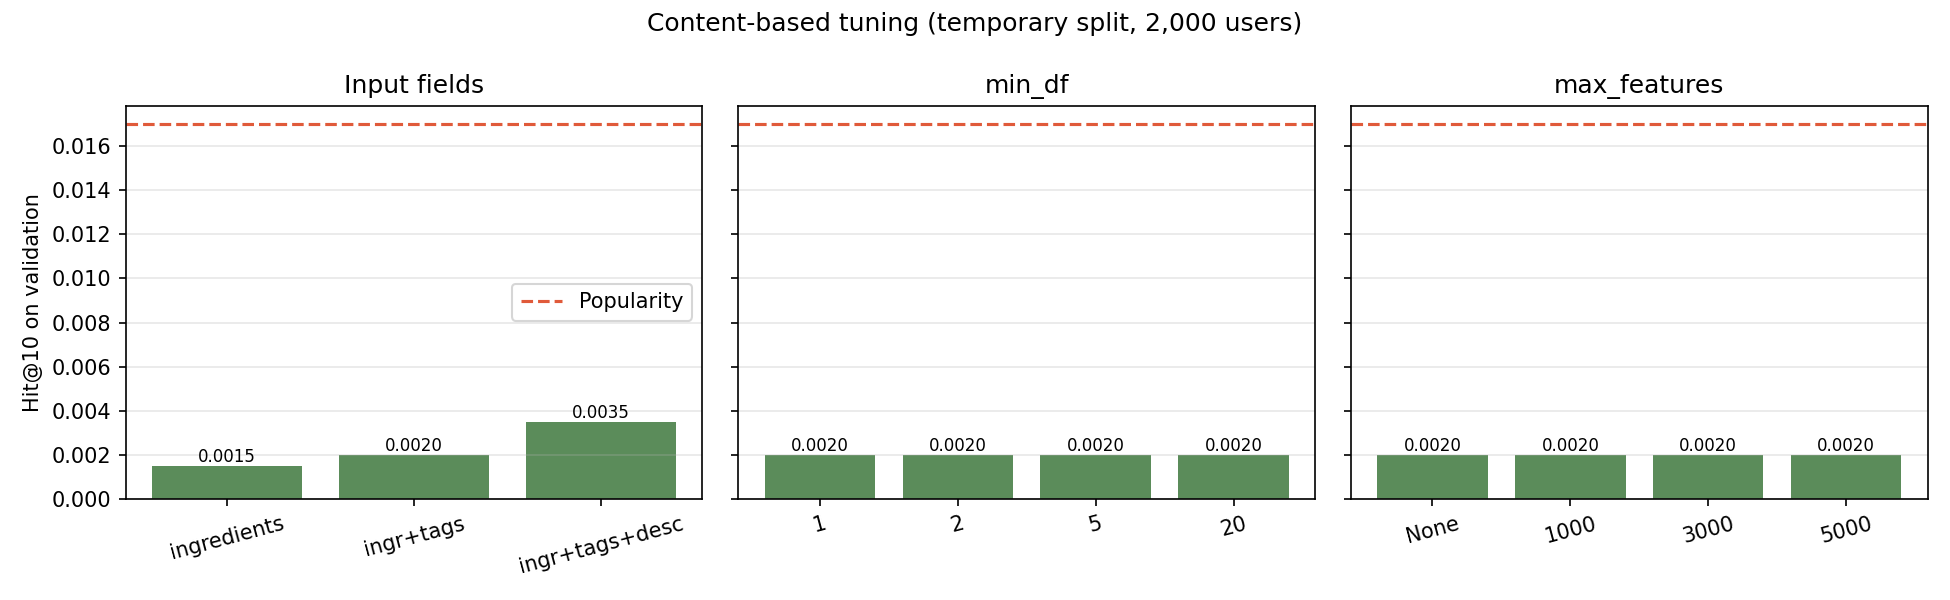
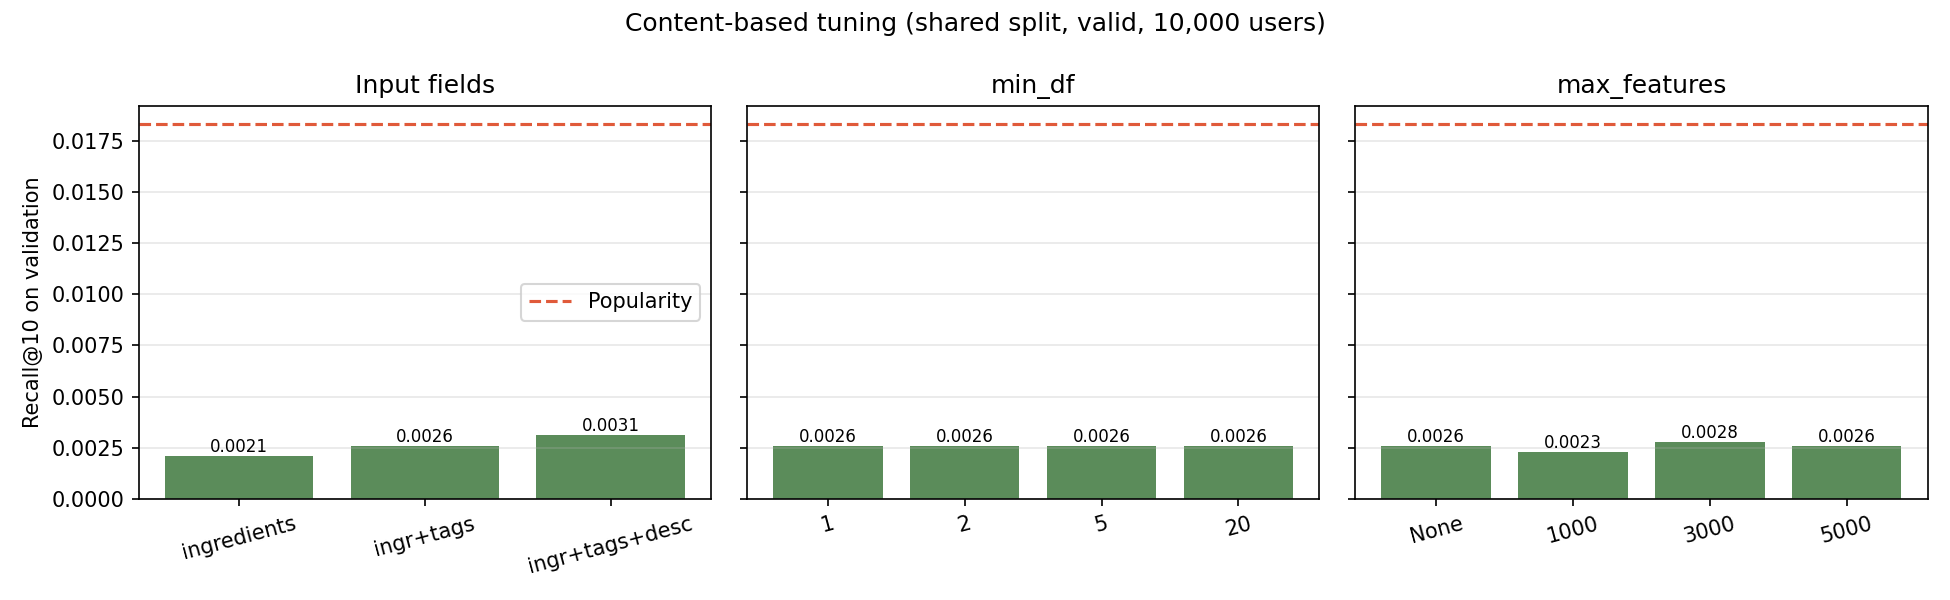
콘텐츠 기반 마무리

diff --git a/tune_content_based.py b/tune_content_based.py
@@ -1,7 +1,7 @@
 """
 tune_content_based.py  (담당: Member C, 3주차 튜닝 실험)
 
-콘텐츠 기반 추천기의 설정을 바꿔 가며 검증(valid) 데이터에서 Hit@K를 비교한다.
+콘텐츠 기반 추천기의 설정을 바꿔 가며 공통 분할의 valid에서 Precision@K·Recall@K를 비교한다.
 
 실험 (기본 설정: 재료+태그, min_df=2, max_features=None)
     한 번에 하나만 바꾸고 나머지는 기본값으로 둔다.
@@ -11,10 +11,11 @@ tune_content_based.py  (담당: Member C, 3주차 튜닝 실험)
 
 왜 valid로 튜닝하는가?
     test로 설정을 고르면 test 점수가 실제보다 좋게 나온다. test가 사실상 학습에 쓰인 셈이기 때문이다.
-    그래서 사용자별 '끝에서 두 번째' 평점(valid)으로 설정을 고른다.
-    test(마지막 평점)는 run_content_based.py에서 마지막 확인에만 쓴다.
+    그래서 valid로 설정을 고르고, test는 run_evaluate.py --split test로 마지막에 한 번만 본다.
 
-!! 임시 분할 기준이다. A의 공통 분할이 나오면 그 valid로 다시 돌린다. !!
+데이터와 지표
+    - 분할: preprocess.load_splits (공통 분할. 먼저 python run_preprocess.py 실행)
+    - 지표: evaluate.evaluate_topk (공통 평가 코드). valid는 사용자당 1개라서 Recall@K = Hit@K 이다.
 
 실행: python tune_content_based.py
 결과: results/content_based_tuning.csv, results/content_based_tuning.png
@@ -32,13 +33,16 @@ import pandas as pd
 ROOT = Path(__file__).resolve().parent
 sys.path.insert(0, str(ROOT / "src"))
 from content_based import ContentBasedRecommender  # noqa: E402
+from evaluate import PopularityBaseline, evaluate_topk  # noqa: E402
+from preprocess import load_splits  # noqa: E402
 from recipe_parsing import prepare_recipes  # noqa: E402
-from temp_eval import temp_split, sample_eval_users, hit_at_k, popular_hit_at_k  # noqa: E402
 
-DATA_DIR = Path(sys.argv[1]) if len(sys.argv) > 1 else ROOT / "data"
+DATA_DIR = ROOT / "data"
 RESULT_DIR = ROOT / "results"
-N_EVAL_USERS = 2000
-KS = [10, 50]
+# 평가 사용자 수. 처음 임시 실험(2,000명)은 설정 간 hit 차이가 몇 명뿐이라 우연과 구별하기 어려웠다.
+# 그래서 10,000명으로 늘렸다. 전체(약 3만 3천 명)는 설정 9개를 돌리는 데 2시간 가까이 걸린다.
+N_EVAL_USERS = 10000
+KS = (10, 50)
 
 DEFAULT = {"fields": ("ingredients", "tags"), "min_df": 2, "max_features": None}
 FIELD_LABELS = {
@@ -54,15 +58,22 @@ EXPERIMENTS = [
 ]
 
 
+def evaluate(model, valid):
+    """공통 평가 코드로 valid를 평가하고 {"recall@10": ..., "precision@10": ..., ...}를 돌려준다."""
+    # 모델이 달라도 seed가 같으면 같은 사용자들이 뽑힌다(evaluate_topk 설명 참고). 그래서 설정끼리 공정하게 비교된다.
+    res = evaluate_topk(model, valid, ks=KS, max_users=N_EVAL_USERS).set_index("k")
+    out = {"n_users": int(res["n_users"].iloc[0])}
+    for k in KS:
+        out[f"recall@{k}"] = res.loc[k, "recall"]
+        out[f"precision@{k}"] = res.loc[k, "precision"]
+    return out
+
+
 def main():
     t0 = time.time()
+    train, valid, _ = load_splits(DATA_DIR / "processed")  # test는 여기서 쓰지 않는다
     recipes = pd.read_csv(DATA_DIR / "RAW_recipes.csv")
-    inter = pd.read_csv(DATA_DIR / "RAW_interactions.csv", usecols=["user_id", "recipe_id", "date", "rating"])
-    inter = inter[inter["rating"] > 0]  # rating 0 = 리뷰만 남긴 경우 → 제거
-
-    train, valid, _ = temp_split(inter)  # test는 여기서 쓰지 않는다
-    eval_rows = sample_eval_users(valid, N_EVAL_USERS)
-    print(f"[임시 분할] train {len(train):,} / valid {len(valid):,}, 평가 사용자 {len(eval_rows):,}명")
+    print(f"[공통 분할] train {len(train):,} / valid {len(valid):,}")
 
     # 재료·태그 파싱(ast.literal_eval)은 23만 행이라 수십 초 걸린다. 실험마다 반복하지 않도록 한 번만 한다.
     # 파싱된 리스트가 들어가면 fit 안의 parse_list_column은 그대로 통과시킨다.
@@ -76,39 +87,36 @@ def main():
             key = tuple(config.items())
             if key not in done:
                 model = ContentBasedRecommender(**config).fit(recipes, train)
-                hits = hit_at_k(model, eval_rows, KS)
-                done[key] = (hits, model.X.shape[1])
-                print(f"  {config}  단어 {model.X.shape[1]:,}개  "
-                      + "  ".join(f"Hit@{k}={h:.4f}" for k, h in hits.items())
-                      + f"  ({time.time() - t0:.0f}s)")
-            hits, vocab = done[key]
+                done[key] = {"vocab_size": model.X.shape[1], **evaluate(model, valid)}
+                r = done[key]
+                print(f"  {config}  단어 {r['vocab_size']:,}개  "
+                      + "  ".join(f"Recall@{k}={r[f'recall@{k}']:.4f}" for k in KS)
+                      + f"  ({time.time() - t0:.0f}s)", flush=True)
             label = FIELD_LABELS[value] if param == "fields" else str(value)
-            rows.append({"experiment": exp_name, "value": label, "vocab_size": vocab,
-                         **{f"hit@{k}": h for k, h in hits.items()}})
+            rows.append({"experiment": exp_name, "value": label, **done[key]})
 
-    # 비교 기준: 같은 사용자들에게 인기순으로 추천한 결과 (모델 설정과 무관하므로 한 번만 계산)
-    pop = popular_hit_at_k(model, eval_rows, KS)
-    rows.append({"experiment": "Popularity", "value": "-", "vocab_size": 0,
-                 **{f"hit@{k}": h for k, h in pop.items()}})
+    # 비교 기준: 공통 평가 코드의 인기순 기준선 (같은 사용자들)
+    pop = evaluate(PopularityBaseline().fit(None, train), valid)
+    rows.append({"experiment": "Popularity", "value": "-", "vocab_size": 0, **pop})
 
     res = pd.DataFrame(rows)
     RESULT_DIR.mkdir(exist_ok=True)
     res.to_csv(RESULT_DIR / "content_based_tuning.csv", index=False)
-    print("\n" + res.round(4).to_string(index=False))
+    print("\n" + res.round(5).to_string(index=False))
 
-    # ---- plot: 실험별 Hit@10 막대 그래프, 인기순은 점선으로 표시 ----
+    # ---- plot: 실험별 Recall@10 막대 그래프, 인기순은 점선으로 표시 ----
     fig, axes = plt.subplots(1, len(EXPERIMENTS), figsize=(13, 4), sharey=True)
     for ax, (exp_name, _, _) in zip(axes, EXPERIMENTS):
         sub = res[res["experiment"] == exp_name]
-        bars = ax.bar(sub["value"], sub["hit@10"], color="#5b8c5a")
+        bars = ax.bar(sub["value"], sub["recall@10"], color="#5b8c5a")
         ax.bar_label(bars, fmt="%.4f", fontsize=8)  # 막대 위에 값 표시
-        ax.axhline(pop[10], color="#e05a3a", linestyle="--", label="Popularity")
+        ax.axhline(pop["recall@10"], color="#e05a3a", linestyle="--", label="Popularity")
         ax.set_title(exp_name)
         ax.tick_params(axis="x", rotation=15)
         ax.grid(axis="y", alpha=0.3)
-    axes[0].set_ylabel("Hit@10 on validation")
+    axes[0].set_ylabel("Recall@10 on validation")
     axes[0].legend()
-    fig.suptitle(f"Content-based tuning (temporary split, {len(eval_rows):,} users)")
+    fig.suptitle(f"Content-based tuning (shared split, valid, {pop['n_users']:,} users)")
     fig.tight_layout()
     fig.savefig(RESULT_DIR / "content_based_tuning.png", dpi=150)
     print(f"\n완료 ({time.time() - t0:.0f}s). 결과: {RESULT_DIR}")

diff --git a/run_content_based.py b/run_content_based.py
@@ -1,109 +1,64 @@
 """
 run_content_based.py  (담당: Member C)
 
-콘텐츠 기반 추천기를 '임시 분할'로 실행해 동작을 확인하는 스크립트.
-
-!! 주의 !!
-    - 여기서 나온 수치는 동작 확인용이다. 최종 보고용 수치가 아니다.
-    - 최종 결과는 A의 공통 분할과 D의 평가 코드로 다시 낸다.
-
-임시 분할 (src/temp_eval.py)
-    사용자별 가장 최근 평점 1개 → test, 그 앞 1개 → valid(튜닝용), 나머지 → train.
-    이 스크립트는 튜닝을 하지 않는다. 그래서 train+valid로 학습하고 test로 확인한다.
-
-임시 확인 지표: Hit@K
-    테스트 레시피에 4점 이상을 준 사용자만 대상으로 한다.
-    그 레시피가 추천 상위 K개 안에 있으면 hit이다.
-    테스트 아이템이 사용자당 1개이므로 Recall@K = Hit@K, Precision@K = Hit@K / K 이다.
+콘텐츠 기반 추천기를 공통 분할로 학습하고, 사용자 몇 명에게 실제로 무엇을 추천하는지 보여 주는 스크립트.
+숫자 평가(Precision@K, Recall@K)는 공통 평가 코드 run_evaluate.py가 한다.
+이 스크립트는 "추천이 내용상 말이 되는가"를 눈으로 확인하는 용도다.
 
 실행 방법
-    1) Kaggle "Food.com Recipes and Interactions"에서 받은 RAW_recipes.csv와
-       RAW_interactions.csv를 data/ 폴더에 넣는다.
+    1) python run_preprocess.py   (공통 분할 data/processed/ 생성, 처음 한 번)
     2) python run_content_based.py
-    결과: results/content_based_temp_eval.csv, results/content_based_temp_hitk.png
+    결과: results/content_based_examples.txt
 """
 
 import sys
-import time
 from pathlib import Path
 
-import matplotlib
-matplotlib.use("Agg")  # 화면 없이 PNG 파일로만 저장하는 백엔드
-import matplotlib.pyplot as plt
 import pandas as pd
 
 ROOT = Path(__file__).resolve().parent
 sys.path.insert(0, str(ROOT / "src"))  # src/ 폴더의 모듈을 import할 수 있게 경로에 추가
 from content_based import ContentBasedRecommender  # noqa: E402
-from temp_eval import temp_split, sample_eval_users, hit_at_k, popular_hit_at_k  # noqa: E402
+from preprocess import load_splits  # noqa: E402
 
-# 명령행 인자로 데이터 폴더를 바꿀 수 있다. 기본값은 ./data
-DATA_DIR = Path(sys.argv[1]) if len(sys.argv) > 1 else ROOT / "data"
+DATA_DIR = ROOT / "data"
 RESULT_DIR = ROOT / "results"
-N_EVAL_USERS = 2000  # 전체 사용자를 다 돌리면 오래 걸린다. 무작위 2000명만 확인한다.
-KS = [5, 10, 20, 50]
+N_EXAMPLES = 3  # 예시로 보여 줄 사용자 수
+SEED = 42
 
-# 모델 설정. tune_content_based.py의 결과를 보고 고른 값을 여기에 넣는다.
-FIELDS = ("ingredients", "tags")
+# 모델 설정. run_evaluate.py의 콘텐츠 기반 설정과 같게 맞춘다 (tune_content_based.py 결과로 고른 값).
+FIELDS = ("ingredients", "tags", "description")
 MIN_DF = 2
 MAX_FEATURES = None
 
 
 def main():
-    t0 = time.time()
+    train, valid, test = load_splits(DATA_DIR / "processed")
     recipes = pd.read_csv(DATA_DIR / "RAW_recipes.csv")
-    inter = pd.read_csv(DATA_DIR / "RAW_interactions.csv", usecols=["user_id", "recipe_id", "date", "rating"])
-    inter = inter[inter["rating"] > 0]  # rating 0 = 리뷰만 남긴 경우 → 제거
-    print(f"레시피 {len(recipes):,}개, 평점 {len(inter):,}개, 사용자 {inter['user_id'].nunique():,}명")
-
-    train, valid, test = temp_split(inter)
-    train = pd.concat([train, valid])  # 튜닝을 하지 않으므로 valid도 학습에 쓴다
-    print(f"[임시 분할] train {len(train):,} / test {len(test):,}")
-
-    model = ContentBasedRecommender(fields=FIELDS, min_df=MIN_DF, max_features=MAX_FEATURES)
-    model.fit(recipes, train)
-    print(f"TF-IDF 행렬: {model.X.shape[0]:,} 레시피 × {model.X.shape[1]:,} 단어, "
-          f"0이 아닌 값 {model.X.nnz:,}개  ({time.time() - t0:.1f}s)")
-
-    # ---- Hit@K 확인: 콘텐츠 기반 vs 인기순 ----
-    eval_rows = sample_eval_users(test, N_EVAL_USERS)
-    has_profile = sum(u in model.liked_rows for u in eval_rows["user_id"]) / len(eval_rows)
-    summary = pd.DataFrame({
-        "hit_content": hit_at_k(model, eval_rows, KS),
-        "hit_popular": popular_hit_at_k(model, eval_rows, KS),
-    })
-    summary.index.name = "k"
-    summary["precision_content"] = summary["hit_content"] / summary.index
-    print(f"\n평가 사용자 {len(eval_rows):,}명 (프로필 있음 {has_profile:.1%})")
-    print(summary.round(4).to_string())
-
-    RESULT_DIR.mkdir(exist_ok=True)
-    summary.to_csv(RESULT_DIR / "content_based_temp_eval.csv")
-
-    # ---- plot: K에 따른 Hit@K, 콘텐츠 기반 vs 인기순 ----
-    fig, ax = plt.subplots(figsize=(6, 4))
-    ax.plot(summary.index, summary["hit_content"], marker="o", label="Content-based (TF-IDF)")
-    ax.plot(summary.index, summary["hit_popular"], marker="s", linestyle="--", label="Popularity (fallback)")
-    ax.set_xlabel("K")
-    ax.set_ylabel("Hit@K (= Recall@K, leave-last-one-out)")
-    ax.set_title(f"Content-based sanity check (temporary split, {len(eval_rows):,} users)")
-    ax.set_xticks(KS)
-    ax.grid(alpha=0.3)
-    ax.legend()
-    fig.tight_layout()
-    fig.savefig(RESULT_DIR / "content_based_temp_hitk.png", dpi=150)
-
-    # ---- 예시 한 명: 좋아한 레시피 vs 추천 레시피 이름 (눈으로 확인용) ----
     names = recipes.set_index("id")["name"]
-    example = next(u for u in eval_rows["user_id"] if len(model.liked_rows.get(u, [])) >= 3)
-    liked_ids = model.recipe_ids[model.liked_rows[example]][:5]
-    print(f"\n[예시] user {example}가 좋아한 레시피:")
-    for rid in liked_ids:
-        print("   -", names.get(rid))
-    print("  추천 Top-5:")
-    for rid in model.recommend(example, k=5):
-        print("   -", names.get(rid))
-    print(f"\n완료 ({time.time() - t0:.1f}s). 결과: {RESULT_DIR}")
+
+    # 최종 평가(run_evaluate.py --split test)와 같이 train+valid로 학습한다.
+    model = ContentBasedRecommender(fields=FIELDS, min_df=MIN_DF, max_features=MAX_FEATURES)
+    model.fit(recipes, pd.concat([train, valid]))
+
+    # 좋아한 레시피가 5개 이상인 test 사용자 중 무작위로 몇 명을 고른다. 너무 적으면 취향이 잘 안 보인다.
+    candidates = [u for u in test["user_id"] if len(model.liked_rows.get(u, [])) >= 5]
+    users = pd.Series(candidates).sample(N_EXAMPLES, random_state=SEED)
+    test_item = test.set_index("user_id")["recipe_id"]
+
+    lines = [f"TF-IDF 행렬: {model.X.shape[0]:,} 레시피 × {model.X.shape[1]:,} 단어", ""]
+    for user_id in users:
+        lines.append(f"[user {user_id}] 좋아한 레시피 (일부):")
+        lines += [f"   - {names.get(rid)}" for rid in model.recipe_ids[model.liked_rows[user_id]][:5]]
+        lines.append("  추천 Top-5:")
+        lines += [f"   - {names.get(rid)}" for rid in model.recommend(user_id, k=5)]
+        lines.append(f"  실제 test 레시피: {names.get(test_item[user_id])}")
+        lines.append("")
+
+    text = "\n".join(lines)
+    print(text)
+    RESULT_DIR.mkdir(exist_ok=True)
+    (RESULT_DIR / "content_based_examples.txt").write_text(text, encoding="utf-8")
 
 
 if __name__ == "__main__":

diff --git a/run_evaluate.py b/run_evaluate.py
@@ -28,7 +28,7 @@ from evaluate import (  # noqa: E402
 KS = (5, 10, 20, 50)
 
 # 콘텐츠 기반 설정. run_content_based.py / tune_content_based.py에서 고른 값과 맞춘다.
-FIELDS = ("ingredients", "tags")
+FIELDS = ("ingredients", "tags", "description")
 MIN_DF = 2
 MAX_FEATURES = None
 

diff --git a/README.md b/README.md
@@ -21,11 +21,10 @@ src/
   preprocess.py          # 전처리, 사용자별 시간순 train/valid/test 분할, 검증(validate_splits), load_splits
   recipe_parsing.py      # 재료·태그 문자열 파싱, TF-IDF 입력 텍스트 생성
   content_based.py       # ContentBasedRecommender
-  temp_eval.py           # 임시 분할·Hit@K (공통 분할·평가 코드가 나오기 전까지 사용)
   evaluate.py            # 평가 지표(RMSE, Precision@K, Recall@K), 인기순 기준선, 그래프 함수
 run_preprocess.py        # 전처리·분할 실행 + 자동 검증 → data/processed/
 run_eda.py               # EDA 그래프 생성 → eda/
-run_content_based.py     # 콘텐츠 기반 추천기 실행 (임시 분할로 동작 확인)
+run_content_based.py     # 콘텐츠 기반 추천 예시 (사용자별 좋아한 레시피 vs 추천 레시피)
 tune_content_based.py    # 콘텐츠 기반 튜닝 실험 (입력 필드, min_df, max_features)
 run_evaluate.py          # 공통 분할로 인기순·콘텐츠 기반·행렬 분해 평가 → results/
 tests/                   # pytest 테스트 (분할·검증 함수)
@@ -83,50 +82,35 @@ test 정답의 7.6%는 train에 없던 새 레시피입니다.
 
 ## 콘텐츠 기반 필터링
 
-실행:
+```
+python tune_content_based.py      # 설정 비교 (공통 valid) → results/content_based_tuning.csv/.png
+python run_content_based.py       # 추천 예시 → results/content_based_examples.txt
+```
 
-```
-python run_content_based.py
-```
+숫자 평가(Precision@K, Recall@K)는 아래 "평가" 섹션의 `run_evaluate.py`로 냅니다.
 
 1. `ingredients`, `tags` 문자열을 `ast.literal_eval`로 리스트로 바꿉니다. 여러 단어 재료는 `olive_oil`처럼 하나로 묶습니다.
-2. 재료와 태그를 이어 붙인 텍스트를 `TfidfVectorizer`로 레시피 × 단어 희소 행렬로 만듭니다.
+2. 재료, 태그, 설명(description)을 이어 붙인 텍스트를 `TfidfVectorizer`로 레시피 × 단어 희소 행렬로 만듭니다.
 3. 학습 데이터에서 4점 이상 준 레시피 벡터의 평균을 사용자 프로필로 씁니다.
 4. 프로필과 전체 레시피의 코사인 유사도를 구하고, 이미 평가한 레시피를 빼고 상위 K개를 추천합니다.
 5. 4점 이상 레시피가 없는 사용자에게는 인기순으로 추천합니다.
 
-아래는 임시 분할(사용자별 가장 최근 평점 1개를 테스트로 사용)로 낸 결과입니다. 동작 확인용이며, 최종 수치는 공통 분할과 평가 코드로 다시 냅니다.
+최종 설정: 입력 필드 재료+태그+설명, `min_df=2`, `max_features=None` (단어 44,077개)
 
-| K   | Hit@K 콘텐츠 기반 | Hit@K 인기순 |
-| --- | ----------------- | ------------ |
-| 5   | 0.40%             | 1.35%        |
-| 10  | 0.55%             | 2.40%        |
-| 20  | 0.70%             | 3.65%        |
-| 50  | 1.25%             | 6.30%        |
+### 튜닝 실험 (공통 valid)
 
-### 튜닝 실험 (임시 검증셋)
+공통 분할의 valid로 설정을 비교했습니다. 한 번에 하나씩만 바꿨고, 평가 사용자는 무작위 10,000명입니다(공통 평가 코드 `evaluate_topk`, 같은 seed).
 
-```
-python tune_content_based.py
-```
+| 실험          | 값                        | Recall@10                   | Recall@50                     |
+| ------------- | ------------------------- | --------------------------- | ----------------------------- |
+| 입력 필드     | 재료만 / +태그 / +설명    | 0.21% / 0.26% / **0.31%**   | 0.56% / 0.77% / **0.99%**     |
+| min_df        | 1 / 2 / 5 / 20            | 모두 0.26%                  | 0.78% / 0.77% / 0.78% / 0.76% |
+| max_features  | None / 1000 / 3000 / 5000 | 0.26% / 0.23% / 0.28% / 0.26% | 0.77% / 0.69% / 0.77% / 0.76% |
+| 인기순 (비교) | -                         | 1.83%                       | 5.45%                         |
 
-사용자별 끝에서 두 번째 평점을 검증용으로 떼어 설정을 비교했습니다. 한 번에 하나씩만 바꿨고, 평가 사용자는 2,000명입니다.
-결과: `results/content_based_tuning.csv`, `results/content_based_tuning.png`
-
-| 실험          | 값                        | Hit@10                | Hit@50                        |
-| ------------- | ------------------------- | --------------------- | ----------------------------- |
-| 입력 필드     | 재료만 / +태그 / +설명    | 0.15% / 0.20% / 0.35% | 0.55% / 0.85% / 1.10%         |
-| min_df        | 1 / 2 / 5 / 20            | 모두 0.20%            | 0.85% / 0.85% / 0.85% / 0.95% |
-| max_features  | None / 1000 / 3000 / 5000 | 모두 0.20%            | 0.85% / 0.65% / 0.85% / 0.95% |
-| 인기순 (비교) | -                         | 1.70%                 | 5.65%                         |
-
-- 설명(description)을 넣었을 때 가장 높았습니다. 다만 2,000명 중 hit 수가 Hit@10 기준 3~7명이라 차이가 우연일 수 있습니다.
-- `min_df`, `max_features`는 결과에 거의 영향이 없었습니다. 단어 수를 4,805개(min_df=20)까지 줄여도 성능이 비슷하므로 행렬을 작게 만들 수 있습니다.
-- 공통 분할이 나오면 그 검증셋으로 다시 돌려 최종 설정을 정합니다.
-
-### 공통 분할이 나오면
-
-`model.fit(recipes_df, train_df)`에 공통 분할의 학습 데이터를 넣고, 평가 코드에서 `model.recommend(user_id, k)`를 호출하면 됩니다.
+- 입력 필드를 더할수록 K=10, K=50 모두에서 좋아졌습니다. 그래서 설명까지 넣은 설정을 골랐습니다.
+- `min_df`, `max_features`는 결과에 거의 영향이 없어서 기본값을 그대로 둡니다. 단어 수를 4,805개(min_df=20)까지 줄여도 성능이 비슷합니다.
+- 어떤 설정도 인기순 기준선을 넘지 못했습니다. 평가 데이터의 정답이 인기 레시피에 많이 몰려 있기 때문으로 보입니다. 반면 콘텐츠 기반은 평점이 하나도 없는 새 레시피도 추천할 수 있습니다.
 
 ## 평가
 
@@ -166,10 +150,11 @@ python run_evaluate.py --models popularity content_based   # 일부 모델만
 | 모델                      | Recall@10 | Recall@50 | Precision@10 | RMSE   |
 | ------------------------- | --------- | --------- | ------------ | ------ |
 | 인기순                    | 2.15%     | 6.03%     | 0.215%       | 0.7965 |
-| 콘텐츠 기반               | 0.31%     | 0.71%     | 0.031%       | -      |
+| 콘텐츠 기반               | 0.39%     | 0.94%     | 0.039%       | -      |
 | 행렬 분해 (수정 전, 임시) | 0.32%     | 0.98%     | 0.032%       | 1.9698 |
 
 행렬 분해 수치는 평점 평균을 빼지 않는 현재 구현으로 낸 임시 값이며, 구현을 고친 뒤 갱신합니다.
+콘텐츠 기반 수치는 튜닝으로 고른 최종 설정(재료+태그+설명)으로 다시 낸 값입니다(`results/eval_test_popularity+content_based_topk.csv`). `eval_test_topk.csv/.png`는 행렬 분해를 고친 뒤 세 모델을 함께 다시 돌릴 때 갱신됩니다.
 그래프: `results/eval_test_topk.png`, `results/eval_test_rmse.png`
 
 ### 해석할 때 주의할 점
@@ -178,7 +163,6 @@ python run_evaluate.py --models popularity content_based   # 일부 모델만
 - 추천 후보가 22만 개가 넘는데 정답은 1개라서 모든 모델의 절댓값이 낮습니다. 모델끼리의 상대 비교로 읽습니다.
 - 콘텐츠 기반은 4점 이상 평가가 없는 사용자에게 인기순으로 대체해서 추천하므로, 그런 사용자의 점수에는 인기순 결과가 섞여 있습니다.
 - 개발 중에는 평가 사용자를 2000명으로 줄여서 돌렸습니다. 이 경우 Recall@10의 오차가 약 ±0.3%p라서 작은 차이는 우연일 수 있습니다. 최종 수치는 전체 사용자로 냅니다.
-- 임시 평가(`temp_eval.py`)는 test의 모든 평점을 정답으로 셌지만, 여기서는 4점 이상만 정답으로 봅니다. 두 표의 수치를 직접 비교하지 않습니다.
 
 담당: 곽가현
 
